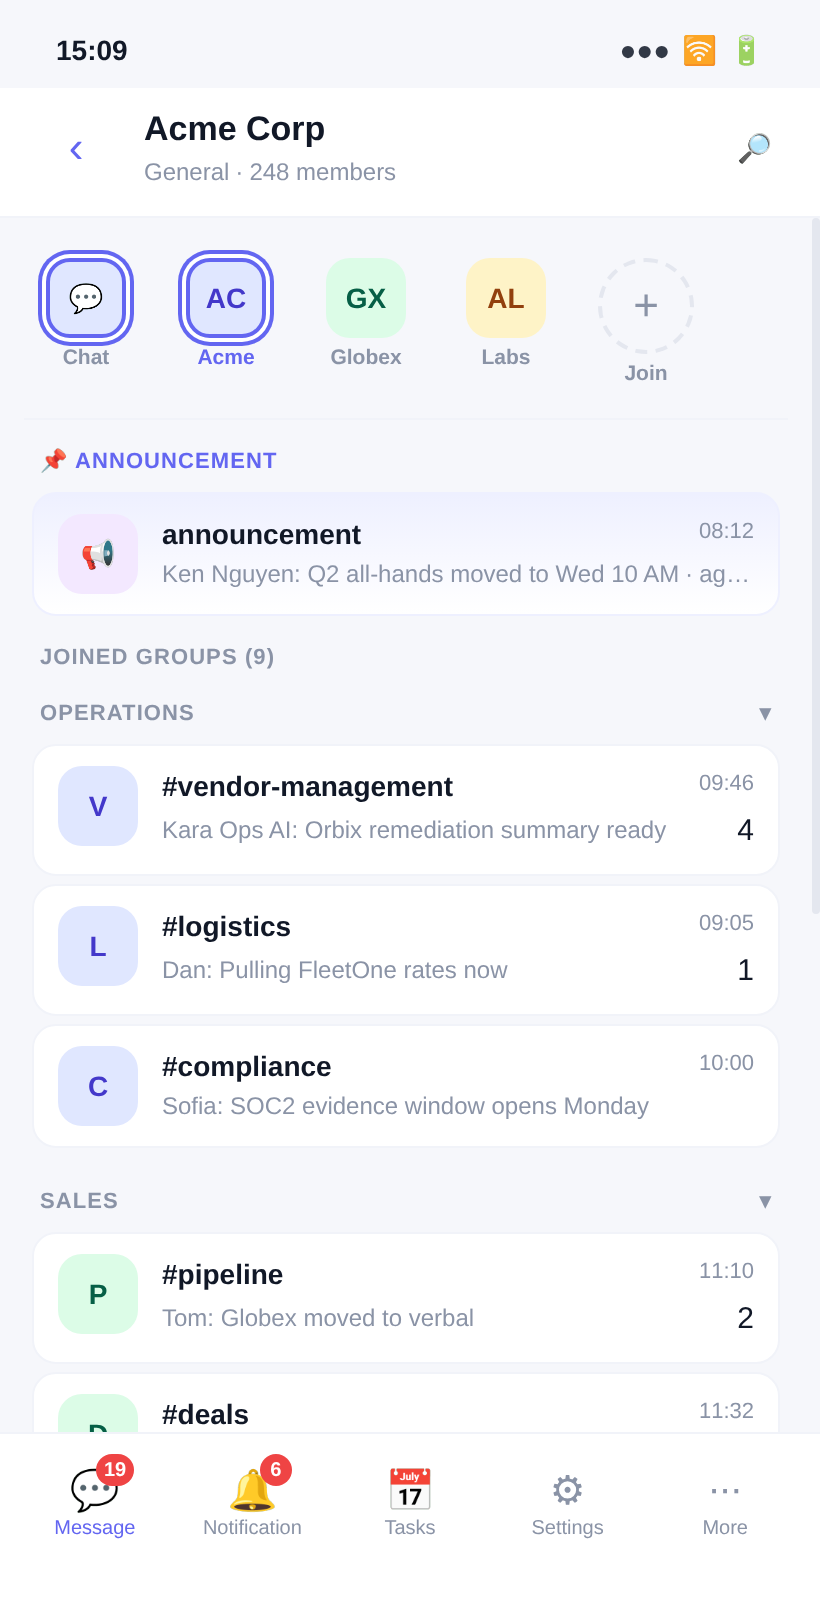
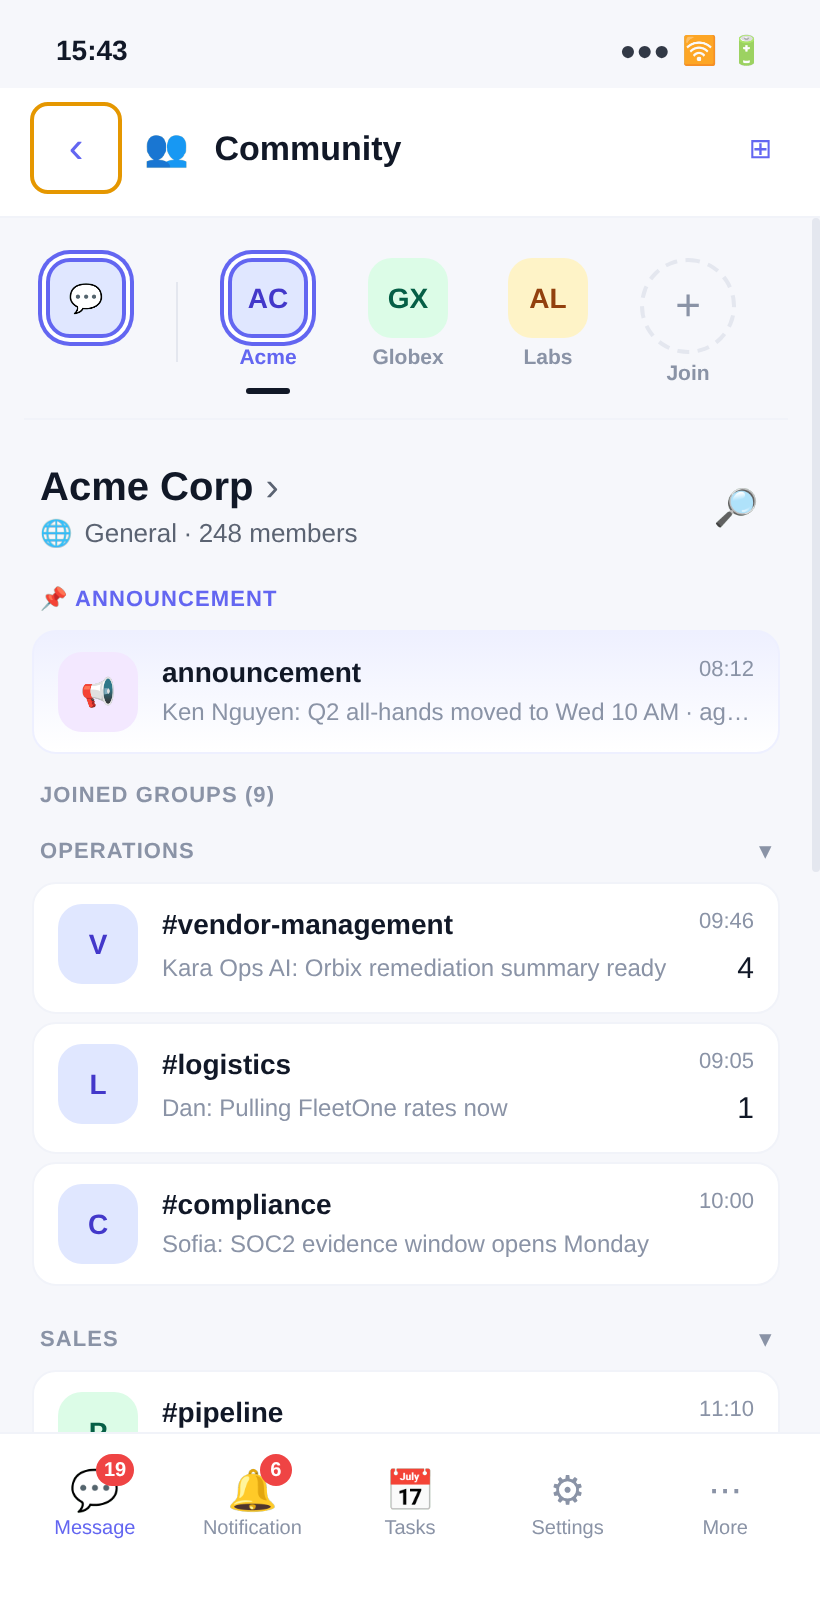
feat(mobile): community-hierarchy polish on channel list
- Topbar is now generic '\u{1F465} Community' (no tenant name, no subtitle)
- Active-tenant name + members moved BELOW the strip as .tenant-header
  with trailing search icon (matches KChat reference)
- Underline indicator under the selected community icon
- Personal-chat bubble drops its 'Chat' label and is separated from
  B2B communities by a vertical divider
- Search moved out of the topbar into the tenant-header row
- Re-captured mobile/screenshots/03-channel-list.png
- PROGRESS.md v0.8.1 entry + README pointer + mobile/README row 3 +
  mobile/screenshots/README rows 02/03 updated

diff --git a/mobile/js/app.js b/mobile/js/app.js
@@ -329,13 +329,15 @@
           <span class="community-icon-label">${t.short || t.name}</span>
         </button>`;
     }).join('');
-    // Leading "chat" bubble (current messages view) + trailing "+" join
+    // Leading personal-chat bubble is a mode switcher (B2C-style DMs),
+    // NOT a peer community — hence no label and a vertical divider
+    // separating it from the B2B community icons on the right.
     return `
       <div class="community-strip" role="tablist" aria-label="Communities">
-        <button class="community-icon chat active-chat" aria-label="Messages" disabled>
+        <button class="community-icon chat active-chat" aria-label="Personal chats" disabled>
           <span class="community-icon-inner avatar a2">💬</span>
-          <span class="community-icon-label">Chat</span>
         </button>
+        <span class="community-strip-divider" role="separator" aria-hidden="true"></span>
         ${tiles}
         <button class="community-icon plus" data-action="join-community" aria-label="Join a community">
           <span class="community-icon-inner">+</span>
@@ -344,11 +346,32 @@
       </div>`;
   }
 
+  function tenantHeaderHTML(tenant) {
+    if (!tenant) return '';
+    const members = tenant.members || 0;
+    return `
+      <div class="tenant-header" data-action="open-tenant" tabindex="0"
+           aria-label="Open ${tenant.name} workspace">
+        <div class="tenant-header-main">
+          <div class="tenant-header-name">
+            <span>${tenant.name}</span>
+            <span class="tenant-header-caret" aria-hidden="true">›</span>
+          </div>
+          <div class="tenant-header-sub">
+            <span class="tenant-header-sub-icon" aria-hidden="true">🌐</span>
+            General · ${members} members
+          </div>
+        </div>
+        <button class="tenant-header-search" data-action="search"
+                onclick="event.stopPropagation(); KApp.show('search')"
+                aria-label="Search">🔎</button>
+      </div>`;
+  }
+
   function renderChannelList(root) {
-    const stripHost  = root.querySelector('[data-community-strip]');
-    const listHost   = root.querySelector('[data-channel-list-body]');
-    const titleEl    = root.querySelector('[data-channel-list-title]');
-    const subtitleEl = root.querySelector('[data-channel-list-subtitle]');
+    const stripHost   = root.querySelector('[data-community-strip]');
+    const headerHost  = root.querySelector('[data-tenant-header]');
+    const listHost    = root.querySelector('[data-channel-list-body]');
     if (!listHost || !stripHost) return;
 
     const tenant = tenantById(state.tenantId);
@@ -387,21 +410,14 @@
     </div>`;
 
     stripHost.innerHTML = communityStripHTML();
+    if (headerHost) headerHost.innerHTML = tenantHeaderHTML(tenant);
     listHost.innerHTML = pinnedHTML + joinedHTML;
 
-    // Topbar: active community name + channel count (screenshot pattern)
-    if (tenant) {
-      if (titleEl) {
-        // Replace only the leading text node so the child .subtitle div
-        // stays intact
-        const firstText = Array.from(titleEl.childNodes).find(n => n.nodeType === Node.TEXT_NODE);
-        if (firstText) firstText.nodeValue = tenant.name;
-        else titleEl.prepend(document.createTextNode(tenant.name));
-      }
-      if (subtitleEl) {
-        subtitleEl.textContent = `General · ${tenant.members || 0} members`;
-      }
-    }
+    // Topbar stays generic ("👥 Community"). The active tenant name +
+    // member count render BELOW the strip as a dedicated section
+    // header (see tenantHeaderHTML) — putting the tenant name in the
+    // topbar above the strip reads as "everything below is inside
+    // this tenant", which is the opposite of what the strip means.
 
     wireChannelList(root);
   }
@@ -418,6 +434,8 @@
         switchTenant(tid);
       } else if (action === 'open-channel') {
         showScreen('channel-chat');
+      } else if (action === 'open-tenant') {
+        showScreen('home');
       } else if (action === 'join-community') {
         toast('Community join flow is not wired in this demo');
       }

diff --git a/mobile/css/components.css b/mobile/css/components.css
@@ -2365,6 +2365,97 @@
 }
 .community-icon.active-chat { cursor: default; }
 
+/* Vertical divider between the personal-chat icon (B2C-style DMs, a
+   mode switcher — not a peer community) and the community icons on
+   the right. Keeps the visual grouping explicit without a text label. */
+.community-strip-divider {
+  flex-shrink: 0;
+  align-self: center;
+  width: 1px;
+  height: 40px;
+  background: var(--k-border);
+  margin: 0 4px;
+}
+
+/* Active-tenant indicator: thin horizontal bar under the selected
+   community icon, matching the reference KChat screenshot. */
+.community-icon { position: relative; }
+.community-icon.active::after {
+  content: '';
+  position: absolute;
+  left: 50%;
+  bottom: -2px;
+  transform: translateX(-50%);
+  width: 22px;
+  height: 3px;
+  border-radius: 2px;
+  background: var(--k-text);
+}
+
+/* Topbar leading icon (👥) next to the "Community" title */
+.topbar-title-icon {
+  margin-right: 8px;
+  font-size: 18px;
+}
+
+/* Tenant-name header shown BELOW the community strip: big active-
+   tenant name with a caret + "🌐 General · N members" subtitle +
+   a trailing search icon. Acts as the page-level context, while the
+   topbar above stays generic ("👥 Community"). */
+.tenant-header {
+  display: flex;
+  align-items: center;
+  justify-content: space-between;
+  gap: 12px;
+  padding: 14px 4px 10px;
+  cursor: pointer;
+}
+.tenant-header:focus-visible {
+  outline: 2px solid var(--k-accent, #6366f1);
+  outline-offset: 2px;
+  border-radius: 6px;
+}
+.tenant-header-main {
+  display: flex;
+  flex-direction: column;
+  gap: 2px;
+  min-width: 0;
+}
+.tenant-header-name {
+  display: flex;
+  align-items: center;
+  gap: 6px;
+  font-size: 20px;
+  font-weight: 700;
+  color: var(--k-text);
+  line-height: 1.2;
+}
+.tenant-header-caret {
+  color: var(--k-text-2);
+  font-weight: 500;
+  font-size: 20px;
+}
+.tenant-header-sub {
+  display: flex;
+  align-items: center;
+  gap: 6px;
+  font-size: 13px;
+  color: var(--k-text-2);
+}
+.tenant-header-sub-icon { opacity: 0.8; }
+.tenant-header-search {
+  flex-shrink: 0;
+  width: 36px;
+  height: 36px;
+  border: none;
+  background: transparent;
+  border-radius: 50%;
+  font-size: 18px;
+  cursor: pointer;
+  color: var(--k-text-2);
+}
+.tenant-header-search:hover { background: var(--k-surface-2, rgba(0,0,0,0.04)); }
+
 /* Channel-list section title (between pinned + Joined groups sections) */
 .channel-section-title {
   margin: 12px 4px 6px;

diff --git a/mobile/index.html b/mobile/index.html
@@ -175,14 +175,17 @@
       <section class="screen" id="screen-channel-list">
         <div class="topbar" data-channel-list-topbar>
           <button class="back-btn" onclick="KApp.back()" aria-label="Back">‹</button>
-          <div class="title" data-channel-list-title>Acme Corp<div class="subtitle" data-channel-list-subtitle>General · 248 members</div></div>
+          <div class="title">
+            <span class="topbar-title-icon" aria-hidden="true">👥</span>
+            Community
+          </div>
           <div class="actions">
             <button onclick="KApp.show('home')" aria-label="Workspace dashboard">⊞</button>
-            <button onclick="KApp.show('search')" aria-label="Search">🔎</button>
           </div>
         </div>
         <div class="content">
           <div data-community-strip></div>
+          <div data-tenant-header></div>
           <div data-channel-list-body></div>
         </div>
       </section>

diff --git a/PROGRESS.md b/PROGRESS.md
@@ -7,6 +7,63 @@ changes.
 
 ---
 
+## Mobile — Community hierarchy polish on channel list (v0.8.1)
+
+**Goal:** Fix the channel-list hierarchy so the community strip reads
+as a *peer-communities picker* rather than as children of the active
+tenant. Matches the KChat reference more precisely.
+
+### Why
+
+In v0.8 the topbar said "Acme Corp · General · 248 members" with the
+community strip (Chat · Acme · Globex · Labs · +Join) rendered
+directly below it. That layout implies "everything below is inside
+Acme" — the opposite of the intent: the strip is the tenant picker
+itself, and Acme is one tenant among several peers. The leading
+personal-chat bubble also carried a "Chat" label, making it read as
+a fourth peer community instead of a B2C-style mode switcher.
+
+### Changes
+
+- [x] **Topbar is now generic** — title is just **"👥 Community"** with
+      no subtitle and no tenant name. The active tenant name is no
+      longer injected at render time.
+- [x] **Active-tenant header moved BELOW the community strip** —
+      dedicated `.tenant-header` section shows the active tenant's
+      name with a `›` caret (tap to open the workspace dashboard),
+      `🌐 General · N members` subtitle, and the search icon aligned
+      to the right. Matches the reference KChat layout.
+- [x] **Active-indicator underline** — `.community-icon.active::after`
+      renders a short horizontal bar under the selected community
+      icon, reinforcing that the strip is the top-level selector.
+- [x] **Personal-chat icon is a mode switcher, not a peer community**
+      — dropped the "Chat" text label under the leading 💬 icon and
+      inserted a `.community-strip-divider` between it and the B2B
+      community icons. Visually communicates the split between B2C
+      personal DMs and B2B communities.
+- [x] **Search icon moved from topbar to the tenant-header row** — a
+      cleaner topbar (just the back arrow + "👥 Community" + the ⊞
+      workspace-dashboard icon), with search sitting next to the
+      active tenant's name since it searches within that community.
+- [x] **Updated `mobile/screenshots/03-channel-list.png`** to reflect
+      the new layout.
+- [x] **Doc refresh** — `mobile/README.md` row 3 describes the new
+      channel-list shape; `mobile/screenshots/README.md` row 03
+      updated; top-level `README.md` "Progress log" pointer bumped
+      to v0.8.1.
+
+### Segments that benefit most
+
+- **Cross-community users (partners, consultants, internal ops on
+  multiple subsidiaries)** — with the peer-picker hierarchy made
+  explicit, switching Acme ⇄ Globex ⇄ Labs feels like the primary
+  navigation gesture instead of a drill-down.
+- **Demo viewers (sales / onboarding)** — the new layout matches the
+  reference KChat screenshot almost 1:1, so the click-through reads
+  more convincingly as "real chat app" at first glance.
+
+---
+
 ## Mobile — Channel List KChat-fidelity pass (v0.8)
 
 **Goal:** Make the mobile channel-list screen (the first real screen a

diff --git a/mobile/README.md b/mobile/README.md
@@ -59,7 +59,7 @@ tab bar drop into B2B with zero rework.
 ### Phase 1 — Core navigation (8)
 1. `launcher` — guided-demo landing
 2. `home` — Acme Corp **workspace dashboard** (tenant switcher, Core Intents, quick actions, recent channels). Reachable from the **⊞** icon in the `channel-list` topbar and from the launcher's secondary "Workspace dashboard" button. **Not the Message-tab landing** — the Message tab (💬) opens `channel-list` directly, since a chat app's home is chat.
-3. `channel-list` — community/tenant strip at top (Chat · Acme · Globex · Labs · +Join), pinned `announcement` row, then "Joined groups (9)" with domain sub-sections for the active community. Rich rows show a colored group avatar, name, relative time, last-message preview, and unread badge; tenant switching persists via `localStorage` under `kchat-b2b-tenant`.
+3. `channel-list` — **generic "👥 Community" topbar** (no tenant name). Community/tenant **strip** below it: leading personal-chat icon (no label, B2C-style DM mode switcher), then a vertical divider, then the B2B community icons (Acme · Globex · Labs) with a short active-indicator underline under the selected one, then a dashed `+Join`. Below the strip sits an **active-tenant header** (big name + `›` caret + `🌐 General · N members` subtitle) with a trailing search icon. Then the pinned `announcement` row, then "Joined groups (N)" with domain sub-sections for the active community. Rich rows show a colored group avatar, name, relative time, last-message preview, and unread badge; tenant switching persists via `localStorage` under `kchat-b2b-tenant`.
 4. `channel-chat` — `#vendor-management` with 12 messages, AI cards, approval card, email card
 5. `thread-detail` — 5 extracted tasks inline, thread chips
 6. `notifications` — 3 action-required + 5 updates

diff --git a/mobile/screenshots/README.md b/mobile/screenshots/README.md
@@ -13,8 +13,8 @@ five-tab shell (Message / Notification / Tasks / Settings / More).
 | # | Screen | What it shows |
 |---|---|---|
 | 01 | Launcher | Demo landing with three guided demo entry points |
-| 02 | Home | Workspace home (Message tab landing) — tenant switcher, Core Intents row, quick actions, recent channels |
-| 03 | Channel list | Community/tenant strip (Chat · Acme · Globex · Labs · +Join), pinned `📌 Announcement`, "Joined groups (9)" header, rich rows with group avatars + last-message previews + relative timestamps + unread badges |
+| 02 | Home | Workspace **dashboard** — reachable from the ⊞ icon in the channel-list topbar and from the launcher's secondary "Workspace dashboard" button. Tenant switcher, Core Intents row, quick actions, recent channels. Not the Message-tab landing (that's the channel list — see 03). |
+| 03 | Channel list | Generic "👥 Community" topbar; community/tenant strip with the personal-chat icon separated from the B2B communities by a vertical divider (Chat · Acme · Globex · Labs · +Join) and an underline indicator under the selected community; active-tenant header below the strip ("Acme Corp › · 🌐 General · 248 members") with a trailing search icon; pinned `📌 Announcement`; "Joined groups (9)" header with rich rows (group avatars + last-message previews + relative timestamps + unread badges) |
 | 04 | Channel chat | `#vendor-management` with AI cards, approval cards, email card, compute-mode badges |
 | 05 | Thread detail | Vendor review thread with AI-extracted task list |
 

diff --git a/README.md b/README.md
@@ -6,7 +6,7 @@ Static click-through vision board for **KChat B2B** — enterprise messaging wit
 - **Desktop demo:** fully working static HTML/CSS/JS under [`desktop/`](./desktop/). No build tools, no frameworks, no server calls.
 - **Mobile demo:** phone click-through under [`mobile/`](./mobile/) — see [`mobile/README.md`](./mobile/README.md). Mirrors the KChat B2C prototype's 5-tab shell (Message · Notification · Tasks · Settings · More) with B2B content (workspaces, Core Intents, AI Employees, approvals).
 - **Shared:** design tokens at [`shared/design-tokens.json`](./shared/design-tokens.json).
-- **Progress log:** see [`PROGRESS.md`](./PROGRESS.md) for the change log (current: **v0.8 Mobile — Channel List KChat-fidelity pass** — community/tenant strip, rich channel rows, pinned Announcement, "Joined groups (N)").
+- **Progress log:** see [`PROGRESS.md`](./PROGRESS.md) for the change log (current: **v0.8.1 Mobile — Community hierarchy polish** — generic "👥 Community" topbar, active-tenant header moved below the community strip, active-indicator underline, personal-chat icon separated from B2B communities by a divider).
 
 > **Core Intents.** Every AI action is organized under four verbs so
 > users don't have to know which *kind* of AI they want before picking a
